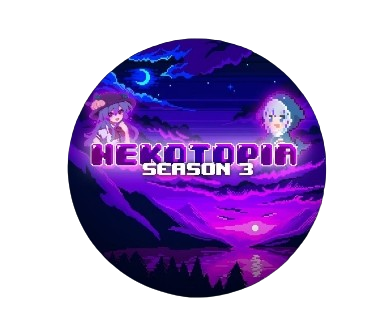
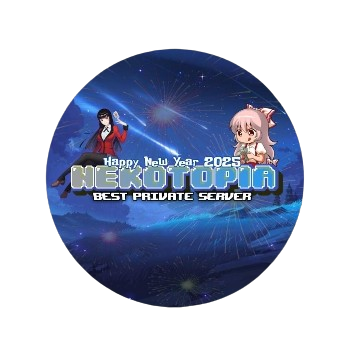
Add files via upload

diff --git a/index.html b/index.html
@@ -28,18 +28,35 @@
             <a href="#" class="nav-link">Home</a>
           </li>
           <li class="nav-item">
-            <a href="#about" class="nav-link">Assets</a>
-          </li>
-                    <li class="nav-item">
-
             <a href="#testimonials" class="nav-link">Buy Role</a>
-
           </li>
                     <li class="nav-item">
 
+            <a href="#testimonials3" class="nav-link">Buy L-ITEM</a>
+
+          </li>
+                                      
+                        <li class="nav-item">
+
+
+
+            <a href="#testimonials4" class="nav-link">Buy Title</a>
+
+          </li>
+                      <li class="nav-item">
+
+
+
+
+
+            <a href="#testimonials5" class="nav-link">Buy Serpent</a>
+
+          </li>
+                    <li class="nav-item">
             <a href="#testimonials2" class="nav-link">Server Own</a>
 
           </li>
+          
           <li class="nav-item">
             <a href="#contact" class="nav-link">Contact</a>
           </li>
@@ -75,7 +92,7 @@
 
       <section class="menu-section" id="menu">
 
-        <h2 class="section-title">info</h2>
+        <h2 class="section-title">Update</h2>
 
         <div class="section-content">
           <ul class="menu-list">
@@ -86,9 +103,9 @@
 
 
 
-                <h3 class="name"></h3>
+                <h3 class="name">What's New</h3>
 
-                <p class="text">Nekotopia Its A GTPS.</p>
+                <p class="text">-Fix Bugs <br>-New UI<br>-Change Colour Background<br>-Re-Design Website<br>-Added Domain<br>-Removed WOTW and WTBD<br>-Added New Profile<br>-Added More Buy Option<br>-New Assets Price<br>-Re-Design Buy L-Item<br>-Re-Design Buy Title<br>-Added Info<br>-Added Serpent Buy Option</p>
                 
                 
               </div>
@@ -96,42 +113,11 @@
           </ul>
         </div>
       </section>
+      
+            <!-- Testimonials section -->
 
-      <!-- About section -->
-      <section class="about-section" id="about">
-        <div class="section-content">
-          <div class="about-image-wrapper">
-            <img src="neko.png" alt="" class="about-image" />
-          </div>
-          <div class="about-details">
-            <h2 class="section-title">ASSETS PRICE</h2>
-            <p class="text">Title: <br />
-            • BLUE NAME: FREE <br />
-            • DR TITLE : FREE <br />
-            • MENTOR   : 5K <br />
-            • L TITLE: 5K <br />
-            • GROW4GOOD: 7K <br /><a href="http://Wa.me/6282269570365?text=BANG+BUY+TITLE" class="social-link"><i class="fa-brands fa-whatsapp"></i> BUY TITLE [CLICK HERE]</a></i> <br />
-            LEGENDARY ITEM: <br />
-            • LEGENDARY WING: 5K <br />
-            • LEGENDARY KAT : 5K <br />
-            • LEGENDARY DRAG   : 5K <br />
-            • LEGENDARY DESTROY: 5K <br />
-            • LEGENDARY KNIGHT    : 5K <br />
-            • LEGENDARY WHIP    : 5K <br />
-            • LEGENDARY BOT    : 5K <br />
-            • LEGENDARY OWL    : 5K <br /><a href="http://Wa.me/6282269570365?text=BANG+BUY+L+ITEM" class="social-link"><i class="fa-brands fa-whatsapp"></i> BUY L ITEM [CLICK HERE]</a></i></p><p class="text">C ITEM: <br />
-            • SERPENT 5K [X400 GEMS, X400EXP]<br /><a href="http://Wa.me/6282269570365?text=BANG+BUY+SERPENT" class="social-link"><i class="fa-brands fa-whatsapp"></i> BUY SERPENT [CLICK HERE]</a></i> <br />
-            <div class="social-link-list">
-              <a href="https://discord.gg/TKzRDeQr" class="social-link"><i class="fa-brands fa-discord"></i></a>
-              <a href="https://wa.me/6282269570365" class="social-link"><i class="fa-brands fa-whatsapp"></i></a>
-              <a href="https://www.tiktok.com/@juraganskibidi?_t=8rxLcQCAgPX&_r=1" class="social-link"><i class="fa-brands fa-tiktok"></i></a>
-            </div>
-          </div>
-        </div>
-      </section>
-
-      <!-- Testimonials section -->
       <section class="testimonials-section" id="testimonials">
+
         <h2 class="section-title">Buy Role</h2>
         <div class="section-content">
           <div class="slider-container swiper">
@@ -139,49 +125,49 @@
               <ul class="testimonials-list swiper-wrapper">
                 <li class="testimonial swiper-slide">
                   <img src="vipcheat.png" alt="User" class="user-image" />
-                  <h3 class="name1">NEWBIE PACK<i class="fas fa-check-circle blue-tick"></i></h3>
-                  <i class="feedback">0Rp [FREE]<br />[Swipe For More Role]<br /><a href="http://Wa.me/6282269570365?text=BANG+BUY+NEWBIE+PACK" class="social-link"><i class="fa-brands fa-whatsapp"></i> BUY ROLE [NO.1 Galang]</a></i></i></i>--- <br /><a href="http://Wa.me/+62 881-0372-84295?text=BANG+BUY+NEWBIE+PACK" class="social-link"><i class="fa-brands fa-whatsapp"></i> BUY ROLE [NO.2 Satya]</a></i></i></i>---<br /><a href="http://Wa.me/+62 821-9412-6411?text=BANG+BUY+NEWBIE+PACK" class="social-link"><i class="fa-brands fa-whatsapp"></i> BUY ROLE [NO.3 Valzz]</a></i></i></i>
+                  <h3 class="name1">NEWBIE PACK</h3>
+                  <i class="feedback">0Rp [FREE]<br />[Swipe For More Role]<br /><a href="http://Wa.me/6282269570365?text=BANG+BUY+NEWBIE+PACK" class="social-link"><i class="fa-brands fa-whatsapp"></i> BUY ROLE #1</a></i></i></i>--- <br /><a href="http://Wa.me/+62 881-0372-84295?text=BANG+BUY+NEWBIE+PACK" class="social-link"><i class="fa-brands fa-whatsapp"></i> BUY ROLE #2</a></i></i></i>---<br /><a href="http://Wa.me/+62 821-9412-6411?text=BANG+BUY+NEWBIE+PACK" class="social-link"><i class="fa-brands fa-whatsapp"></i> BUY ROLE #3</a></i></i></i>
                 </li>
                 <li class="testimonial swiper-slide">
                   <img src="mute.png" alt="User" class="user-image" />
-                  <h3 class="name1">GUARDIAN<i class="fas fa-check-circle blue-tick"></i></h3>
-                  <i class="feedback">10.000Rp<br />[Swipe For More Role]<br /><a href="http://Wa.me/6282269570365?text=BANG+BUY+ROLE+GUARDIAN" class="social-link"><i class="fa-brands fa-whatsapp"></i> BUY ROLE [NO.1 Galang]</a></i></i>--- <br /><a href="http://Wa.me/+62 881-0372-84295?text=BANG+BUY+ROLE+GUARDIAN" class="social-link"><i class="fa-brands fa-whatsapp"></i> BUY ROLE [NO.2 Satya]</a></i></i></i>--- <br /><a href="http://Wa.me/+62 821-9412-6411?text=BANG+BUY+ROLE+GUARDIAN" class="social-link"><i class="fa-brands fa-whatsapp"></i> BUY ROLE [NO.3 Valzz]</a></i></i></i>
+                  <h3 class="name1">GUARDIAN</h3>
+                  <i class="feedback">10.000Rp<br />[Swipe For More Role]<br /><a href="http://Wa.me/6282269570365?text=BANG+BUY+ROLE+GUARDIAN" class="social-link"><i class="fa-brands fa-whatsapp"></i> BUY ROLE #1</a></i></i>--- <br /><a href="http://Wa.me/+62 881-0372-84295?text=BANG+BUY+ROLE+GUARDIAN" class="social-link"><i class="fa-brands fa-whatsapp"></i> BUY ROLE #2</a></i></i></i>--- <br /><a href="http://Wa.me/+62 821-9412-6411?text=BANG+BUY+ROLE+GUARDIAN" class="social-link"><i class="fa-brands fa-whatsapp"></i> BUY ROLE #3</a></i></i></i>
                 </li>
                 <li class="testimonial swiper-slide">
                   <img src="ban.png" alt="User" class="user-image" />
-                  <h3 class="name1">MODERATOR<i class="fas fa-check-circle blue-tick"></i></h3>
+                  <h3 class="name1">MODERATOR</h3>
 
-                  <i class="feedback">25.000Rp<br />[Swipe For More Role]<br /><a href="http://Wa.me/6282269570365?text=BANG+BUY+ROLE+MODERATOR" class="social-link"><i class="fa-brands fa-whatsapp"></i> BUY ROLE [NO.1 Galang]</a></i></i></i>--- <br /><a href="http://Wa.me/+62 881-0372-84295?text=BANG+BUY+ROLE+MODERATOR" class="social-link"><i class="fa-brands fa-whatsapp"></i> BUY ROLE [NO.2 Satya]</a></i></i></i>--- <br /><a href="http://Wa.me/+62 821-9412-6411?text=BANG+BUY+ROLE+MODERATOR" class="social-link"><i class="fa-brands fa-whatsapp"></i> BUY ROLE [NO.3 Valzz]</a></i></i></i>
+                  <i class="feedback">25.000Rp<br />[Swipe For More Role]<br /><a href="http://Wa.me/6282269570365?text=BANG+BUY+ROLE+MODERATOR" class="social-link"><i class="fa-brands fa-whatsapp"></i> BUY ROLE #1</a></i></i></i>--- <br /><a href="http://Wa.me/+62 881-0372-84295?text=BANG+BUY+ROLE+MODERATOR" class="social-link"><i class="fa-brands fa-whatsapp"></i> BUY ROLE #2</a></i></i></i>--- <br /><a href="http://Wa.me/+62 821-9412-6411?text=BANG+BUY+ROLE+MODERATOR" class="social-link"><i class="fa-brands fa-whatsapp"></i> BUY ROLE #3</a></i></i></i>
                 </li>
                                 <li class="testimonial swiper-slide">
 
-                  <img src="curse.png" alt="User" class="user-image" />
+                  <img src="ban.png" alt="User" class="user-image" />
 
-                  <h3 class="name1">DEVELOPER<i class="fas fa-check-circle blue-tick"></i></h3>
+                  <h3 class="name1">DEVELOPER</h3>
 
-                  <i class="feedback">45.000Rp<br />[Swipe For More Role]<br /><a href="http://Wa.me/6282269570365?text=BANG+BUY+ROLE+DEV" class="social-link"><i class="fa-brands fa-whatsapp"></i> BUY ROLE [NO.1 Galang]</a></i></i></i>--- <br /><a href="http://Wa.me/+62 881-0372-84295?text=BANG+BUY+ROLE+DEVELOPER" class="social-link"><i class="fa-brands fa-whatsapp"></i> BUY ROLE [NO.2 Satya]</a></i></i></i>--- <br /><a href="http://Wa.me/+62 821-9412-6411?text=BANG+BUY+ROLE+DEVELOPER" class="social-link"><i class="fa-brands fa-whatsapp"></i> BUY ROLE [NO.3 Valzz]</a></i></i></i>
+                  <i class="feedback">45.000Rp<br />[Swipe For More Role]<br /><a href="http://Wa.me/6282269570365?text=BANG+BUY+ROLE+DEV" class="social-link"><i class="fa-brands fa-whatsapp"></i> BUY ROLE #1</a></i></i></i>--- <br /><a href="http://Wa.me/+62 881-0372-84295?text=BANG+BUY+ROLE+DEVELOPER" class="social-link"><i class="fa-brands fa-whatsapp"></i> BUY ROLE #2</a></i></i></i>--- <br /><a href="http://Wa.me/+62 821-9412-6411?text=BANG+BUY+ROLE+DEVELOPER" class="social-link"><i class="fa-brands fa-whatsapp"></i> BUY ROLE #3</a></i></i></i>
                 </li>
 <li class="testimonial swiper-slide">
-                  <img src="curse.png" alt="User" class="user-image" />
+                  <img src="ban.png" alt="User" class="user-image" />
 
-                  <h3 class="name1">SUPER-DEV<i class="fas fa-check-circle blue-tick"></i></h3>
+                  <h3 class="name1">SUPER-DEV</h3>
 
-                  <i class="feedback">55.000Rp<br />[Swipe For More Role]<br /><a href="http://Wa.me/6282269570365?text=BANG+BUY+ROLE+SDEV" class="social-link"><i class="fa-brands fa-whatsapp"></i> BUY ROLE [NO.1 Galang]</a></i></i></i>--- <br /><a href="http://Wa.me/+62 881-0372-84295?text=BANG+BUY+ROLE+SDEV" class="social-link"><i class="fa-brands fa-whatsapp"></i> BUY ROLE [NO.2 Satya]</a></i></i></i>--- <br /><a href="http://Wa.me/+62 821-9412-6411?text=BANG+BUY+ROLE+SDEV" class="social-link"><i class="fa-brands fa-whatsapp"></i> BUY ROLE [NO.3 Valzz]</a></i></i></i>
+                  <i class="feedback">55.000Rp<br />[Swipe For More Role]<br /><a href="http://Wa.me/6282269570365?text=BANG+BUY+ROLE+SDEV" class="social-link"><i class="fa-brands fa-whatsapp"></i> BUY ROLE #1</a></i></i></i>--- <br /><a href="http://Wa.me/+62 881-0372-84295?text=BANG+BUY+ROLE+SDEV" class="social-link"><i class="fa-brands fa-whatsapp"></i> BUY ROLE #2</a></i></i></i>--- <br /><a href="http://Wa.me/+62 821-9412-6411?text=BANG+BUY+ROLE+SDEV" class="social-link"><i class="fa-brands fa-whatsapp"></i> BUY ROLE #3</a></i></i></i>
                 </li>
                 <li class="testimonial swiper-slide">
 
                   <img src="curse.png" alt="User" class="user-image" />
 
 
-                  <h3 class="name1">STAFF<i class="fas fa-check-circle blue-tick"></i></h3>
+                  <h3 class="name1">STAFF</h3>
 
-                  <i class="feedback">150.000Rp<br />[Swipe For More Role]<br /><a href="http://Wa.me/6282269570365?text=BANG+BUY+ROLE+STAFF" class="social-link"><i class="fa-brands fa-whatsapp"></i> BUY ROLE [NO.1 Galang]</a></i></i></i>--- <br /><a href="http://Wa.me/+62 881-0372-84295?text=BANG+BUY+ROLE+STAFF" class="social-link"><i class="fa-brands fa-whatsapp"></i> BUY ROLE [NO.2 Satya]</a></i></i></i>---<br /><a href="http://Wa.me/+62 821-9412-6411?text=BANG+BUY+ROLE+STAFF" class="social-link"><i class="fa-brands fa-whatsapp"></i> BUY ROLE [NO.3 Valzz]</a></i></i></i>
+                  <i class="feedback">150.000Rp<br />[Swipe For More Role]<br /><a href="http://Wa.me/6282269570365?text=BANG+BUY+ROLE+STAFF" class="social-link"><i class="fa-brands fa-whatsapp"></i> BUY ROLE #1</a></i></i></i>--- <br /><a href="http://Wa.me/+62 881-0372-84295?text=BANG+BUY+ROLE+STAFF" class="social-link"><i class="fa-brands fa-whatsapp"></i> BUY ROLE #2</a></i></i></i>---<br /><a href="http://Wa.me/+62 821-9412-6411?text=BANG+BUY+ROLE+STAFF" class="social-link"><i class="fa-brands fa-whatsapp"></i> BUY ROLE #3</a></i></i></i>
                 </li></i>
                 </li>
 <li class="testimonial swiper-slide">
                   <img src="curse.png" alt="User" class="user-image" />
 
-                  <h3 class="name1">CO-LIST<i class="fas fa-check-circle blue-tick"></i></h3>
+                  <h3 class="name1">CO-LIST</h3>
 
                   <i class="feedback">500.000Rp [Disabled]<br />[Swipe For More Role]<br />Disabled</i>
                 </li>
@@ -192,6 +178,180 @@
               <div class="swiper-slide-button swiper-button-prev"></div>
 
               <div class="swiper-slide-button swiper-button-next"></div>
+            </div>
+          </div>
+        </div>
+      </section>
+      
+                  <!-- Testimonials section -->
+
+      <section class="testimonials-section" id="testimonials3">
+
+        <h2 class="section-title">Buy L-ITEM</h2>
+        <div class="section-content">
+          <div class="slider-container swiper">
+            <div class="slider-wrapper">
+              <ul class="testimonials-list swiper-wrapper">
+                <li class="testimonial swiper-slide">
+                  <img src="katana.png" alt="User" class="user-image" />
+                  <h3 class="name1">Legendary Katana</h3>
+                  <i class="feedback">5.000Rp<br />[Swipe For More L-ITEM]<br /><a href="http://Wa.me/6282269570365?text=BANG+BUY+LEGENDARY+KATANA" class="social-link"><i class="fa-brands fa-whatsapp"></i> BUY L-ITEM #1</a></i></i></i>--- <br /><a href="http://Wa.me/+62 881-0372-84295?text=BANG+BUY+LEGENDARY+KATANA" class="social-link"><i class="fa-brands fa-whatsapp"></i> BUY L-ITEM #2</a></i></i></i>---<br /><a href="http://Wa.me/+62 821-9412-6411?text=BANG+BUY+LEGENDARY+KATANA" class="social-link"><i class="fa-brands fa-whatsapp"></i> BUY L-ITEM #3</a></i></i></i></i>
+                </li>
+                <li class="testimonial swiper-slide">
+                  <img src="lwing.png" alt="User" class="user-image" />
+                  <h3 class="name1">Legendary Wing</h3>
+                  <i class="feedback">5.000Rp<br />[Swipe For More L-ITEM]<br /><a href="http://Wa.me/6282269570365?text=BANG+BUY+LEGENDARY+WING" class="social-link"><i class="fa-brands fa-whatsapp"></i> BUY L-ITEM #1</a></i></i></i>--- <br /><a href="http://Wa.me/+62 881-0372-84295?text=BANG+BUY+LEGENDARY+WING" class="social-link"><i class="fa-brands fa-whatsapp"></i> BUY L-ITEM #2</a></i></i></i>---<br /><a href="http://Wa.me/+62 821-9412-6411?text=BANG+BUY+LEGENDARY+WING" class="social-link"><i class="fa-brands fa-whatsapp"></i> BUY L-ITEM #3</a></i></i></i></i>
+                </li>
+                                <li class="testimonial swiper-slide">
+
+                  <img src="dragon.png" alt="User" class="user-image" />
+
+                  <h3 class="name1">Legendary Dragon</h3>
+
+                  <i class="feedback">5.000Rp<br />[Swipe For More L-ITEM]<br /><a href="http://Wa.me/6282269570365?text=BANG+BUY+LEGENDARY+DRAGON" class="social-link"><i class="fa-brands fa-whatsapp"></i> BUY L-ITEM #1</a></i></i></i>--- <br /><a href="http://Wa.me/+62 881-0372-84295?text=BANG+BUY+LEGENDARY+DRAGON" class="social-link"><i class="fa-brands fa-whatsapp"></i> BUY L-ITEM #2</a></i></i></i>---<br /><a href="http://Wa.me/+62 821-9412-6411?text=BANG+BUY+LEGENDARY+DRAGON" class="social-link"><i class="fa-brands fa-whatsapp"></i> BUY L-ITEM #3</a></i></i></i></i>
+                </li>
+                <li class="testimonial swiper-slide">
+                  <img src="bot.png" alt="User" class="user-image" />
+                  <h3 class="name1">Legendbot-009</h3>
+
+                  <i class="feedback">5.000Rp<br />[Swipe For More L-ITEM]<br /><a href="http://Wa.me/6282269570365?text=BANG+BUY+LEGENDBOT-009" class="social-link"><i class="fa-brands fa-whatsapp"></i> BUY L-ITEM #1</a></i></i></i>--- <br /><a href="http://Wa.me/+62 881-0372-84295?text=BANG+BUY+LEGENDBOT-009" class="social-link"><i class="fa-brands fa-whatsapp"></i> BUY L-ITEM #2</a></i></i></i>---<br /><a href="http://Wa.me/+62 821-9412-6411?text=BANG+BUY+LEGENDBOT-009" class="social-link"><i class="fa-brands fa-whatsapp"></i> BUY L-ITEM #3</a></i></i></i></i>
+                </li>
+                                <li class="testimonial swiper-slide">
+
+                  <img src="knight.png" alt="User" class="user-image" />
+
+                  <h3 class="name1">Legendary Knight Wing</h3>
+
+                  <i class="feedback">5.000Rp<br />[Swipe For More L-ITEM]<br /><a href="http://Wa.me/6282269570365?text=BANG+BUY+LEGENDARY+KNIGHT+WING" class="social-link"><i class="fa-brands fa-whatsapp"></i> BUY L-ITEM #1</a></i></i></i>--- <br /><a href="http://Wa.me/+62 881-0372-84295?text=BANG+BUY+LEGENDARY+KNIGHT+WING" class="social-link"><i class="fa-brands fa-whatsapp"></i> BUY L-ITEM #2</a></i></i></i>---<br /><a href="http://Wa.me/+62 821-9412-6411?text=BANG+BUY+LEGENDARY+KNIGHT+WING" class="social-link"><i class="fa-brands fa-whatsapp"></i> BUY L-ITEM #3</a></i></i></i></i>
+                </li>
+<li class="testimonial swiper-slide">
+                  <img src="owl.png" alt="User" class="user-image" />
+
+                  <h3 class="name1">Legendary Owl</h3>
+
+                  <i class="feedback">5.000Rp<br />[Swipe For More L-ITEM]<br /><a href="http://Wa.me/6282269570365?text=BANG+BUY+LEGENDARY+OWL" class="social-link"><i class="fa-brands fa-whatsapp"></i> BUY L-ITEM #1</a></i></i></i>--- <br /><a href="http://Wa.me/+62 881-0372-84295?text=BANG+BUY+LEGENDARY+OWL" class="social-link"><i class="fa-brands fa-whatsapp"></i> BUY L-ITEM #2</a></i></i></i>---<br /><a href="http://Wa.me/+62 821-9412-6411?text=BANG+BUY+LEGENDARY+OWL" class="social-link"><i class="fa-brands fa-whatsapp"></i> BUY L-ITEM #3</a></i></i></i></i>
+                </li>
+                <li class="testimonial swiper-slide">
+
+                  <img src="destroy.png" alt="User" class="user-image" />
+
+
+                  <h3 class="name1">Legendary Destroyer</h3>
+
+                  <i class="feedback">5.000Rp<br />[Swipe For More L-ITEM]<br /><a href="http://Wa.me/6282269570365?text=BANG+BUY+LEGENDARY+DESTROYER" class="social-link"><i class="fa-brands fa-whatsapp"></i> BUY L-ITEM #1</a></i></i></i>--- <br /><a href="http://Wa.me/+62 881-0372-84295?text=BANG+BUY+LEGENDARY+DESTROYER" class="social-link"><i class="fa-brands fa-whatsapp"></i> BUY L-ITEM #2</a></i></i></i>---<br /><a href="http://Wa.me/+62 821-9412-6411?text=BANG+BUY+LEGENDARY+DESTROYER" class="social-link"><i class="fa-brands fa-whatsapp"></i> BUY L-ITEM #3</a></i></i></i></i>
+                </li></i>
+                </li>
+<li class="testimonial swiper-slide">
+                  <img src="whip.png" alt="User" class="user-image" />
+
+                  <h3 class="name1">Whip Of Truth</h3>
+
+                  <i class="feedback">5.000Rp<br />[Swipe For More L-ITEM]<br /><a href="http://Wa.me/6282269570365?text=BANG+BUY+WHIP+OF+TRUTH" class="social-link"><i class="fa-brands fa-whatsapp"></i> BUY L-ITEM #1</a></i></i></i>--- <br /><a href="http://Wa.me/+62 881-0372-84295?text=BANG+BUY+WHIP+OF+TRUTH" class="social-link"><i class="fa-brands fa-whatsapp"></i> BUY L-ITEM #2</a></i></i></i>---<br /><a href="http://Wa.me/+62 821-9412-6411?text=BANG+BUY+WHIP+OF+TRUTH" class="social-link"><i class="fa-brands fa-whatsapp"></i> BUY L-ITEM #3</a></i></i></i></i>
+                </li>
+              </ul>
+              
+                            <div class="swiper-pagination"></div>
+
+              <div class="swiper-slide-button swiper-button-prev"></div>
+
+              <div class="swiper-slide-button swiper-button-next"></div>
+            </div>
+          </div>
+        </div>
+      </section>
+      
+                        <!-- Testimonials section -->
+
+      <section class="testimonials-section" id="testimonials4">
+
+        <h2 class="section-title">Buy Title</h2>
+        <div class="section-content">
+          <div class="slider-container swiper">
+            <div class="slider-wrapper">
+              <ul class="testimonials-list swiper-wrapper">
+                <li class="testimonial swiper-slide">
+                  <img src="honor.png" alt="User" class="user-image" />
+                  <h3 class="name1">Blue Name</h3>
+                  <i class="feedback">0Rp [FREE]<br />[Swipe For More Title]<br /><a href="http://Wa.me/6282269570365?text=BANG+BUY+BLUE+NAME" class="social-link"><i class="fa-brands fa-whatsapp"></i> BUY TITLE #1</a></i></i></i>--- <br /><a href="http://Wa.me/+62 881-0372-84295?text=BANG+BUY+BLUE+NAME" class="social-link"><i class="fa-brands fa-whatsapp"></i> BUY TITLE #2</a></i></i></i>---<br /><a href="http://Wa.me/+62 821-9412-6411?text=BANG+BUY+BLUE+NAME" class="social-link"><i class="fa-brands fa-whatsapp"></i> BUY TITLE #3</a></i></i></i></i>
+                </li>
+                <li class="testimonial swiper-slide">
+                  <img src="honor.png" alt="User" class="user-image" />
+                  <h3 class="name1">Dr Title</h3>
+                  <i class="feedback">0Rp [FREE]<br />[Swipe For More Title]<br /><a href="http://Wa.me/6282269570365?text=BANG+BUY+DR+TITLE" class="social-link"><i class="fa-brands fa-whatsapp"></i> BUY TITLE #1</a></i></i></i>--- <br /><a href="http://Wa.me/+62 881-0372-84295?text=BANG+BUY+DR+TITLE" class="social-link"><i class="fa-brands fa-whatsapp"></i> BUY TITLE #2</a></i></i></i>---<br /><a href="http://Wa.me/+62 821-9412-6411?text=BANG+BUY+DR+TITLE" class="social-link"><i class="fa-brands fa-whatsapp"></i> BUY TITLE #3</a></i></i></i></i>
+                </li>
+                                <li class="testimonial swiper-slide">
+
+                  <img src="honor.png" alt="User" class="user-image" />
+
+                  <h3 class="name1">Legendary Title</h3>
+
+                  <i class="feedback">5.000Rp<br />[Swipe For More Title]<br /><a href="http://Wa.me/6282269570365?text=BANG+BUY+L+TITLE" class="social-link"><i class="fa-brands fa-whatsapp"></i> BUY TITLE #1</a></i></i></i>--- <br /><a href="http://Wa.me/+62 881-0372-84295?text=BANG+BUY+L+TITLE" class="social-link"><i class="fa-brands fa-whatsapp"></i> BUY TITLE #2</a></i></i></i>---<br /><a href="http://Wa.me/+62 821-9412-6411?text=BANG+BUY+L+TITLE" class="social-link"><i class="fa-brands fa-whatsapp"></i> BUY TITLE #3</a></i></i></i></i>
+                </li>
+                <li class="testimonial swiper-slide">
+                  <img src="mentor.png" alt="User" class="user-image" />
+                  <h3 class="name1">Mentor</h3>
+
+                  <i class="feedback">5.000Rp<br />[Swipe For More Title]<br /><a href="http://Wa.me/6282269570365?text=BANG+BUY+TITLE+MENTOR" class="social-link"><i class="fa-brands fa-whatsapp"></i> BUY TITLE #1</a></i></i></i>--- <br /><a href="http://Wa.me/+62 881-0372-84295?text=BANG+BUY+TITLE+MENTOR" class="social-link"><i class="fa-brands fa-whatsapp"></i> BUY TITLE #2</a></i></i></i>---<br /><a href="http://Wa.me/+62 821-9412-6411?text=BANG+BUY+TITLE+MENTOR" class="social-link"><i class="fa-brands fa-whatsapp"></i> BUY TITLE #3</a></i></i></i></i>
+                </li>
+                                <li class="testimonial swiper-slide">
+
+                  <img src="grow4good.png" alt="User" class="user-image" />
+
+                  <h3 class="name1">Grow4Good</h3>
+
+                  <i class="feedback">7.000Rp<br />[Swipe For More Title]<br /><a href="http://Wa.me/6282269570365?text=BANG+BUY+TITLE+GROW4GOOD" class="social-link"><i class="fa-brands fa-whatsapp"></i> BUY TITLE #1</a></i></i></i>--- <br /><a href="http://Wa.me/+62 881-0372-84295?text=BANG+BUY+TITLE+GROW4GOOD" class="social-link"><i class="fa-brands fa-whatsapp"></i> BUY TITLE #2</a></i></i></i>---<br /><a href="http://Wa.me/+62 821-9412-6411?text=BANG+BUY+TITLE+GROW4GOOD" class="social-link"><i class="fa-brands fa-whatsapp"></i> BUY TITLE #3</a></i></i></i></i>
+                </li>
+              </ul>
+              
+                            <div class="swiper-pagination"></div>
+
+              <div class="swiper-slide-button swiper-button-prev"></div>
+
+              <div class="swiper-slide-button swiper-button-next"></div>
+            </div>
+          </div>
+        </div>
+      </section>
+      
+                        <!-- Testimonials section -->
+
+      <section class="testimonials-section" id="testimonials5">
+
+        <h2 class="section-title">Buy SERPENT</h2>
+        <div class="section-content">
+          <div class="slider-container swiper">
+            <div class="slider-wrapper">
+              <ul class="testimonials-list swiper-wrapper">
+                <li class="testimonial swiper-slide">
+                  <img src="serpent.jpeg" alt="User" class="user-image" />
+                  <h3 class="name1">SERPENT</h3>
+                  <i class="feedback">5.000Rp<br />[x400 GEMS x400 EXP]<br /><a href="http://Wa.me/6282269570365?text=BANG+BUY+SERPENT" class="social-link"><i class="fa-brands fa-whatsapp"></i> BUY SERPENT #1</a></i></i></i>--- <br /><a href="http://Wa.me/+62 881-0372-84295?text=BANG+BUY+SERPENT" class="social-link"><i class="fa-brands fa-whatsapp"></i> BUY SERPENT #2</a></i></i></i>---<br /><a href="http://Wa.me/+62 821-9412-6411?text=BANG+BUY+SERPENT" class="social-link"><i class="fa-brands fa-whatsapp"></i> BUY SERPENT #3</a></i></i></i></i>
+                </li>
+              </ul>
+              
+                            <div class="swiper-pagination"></div>
+
+              <div class="swiper-slide-button swiper-button-prev"></div>
+
+              <div class="swiper-slide-button swiper-button-next"></div>
+            </div>
+          </div>
+        </div>
+      </section>
+      
+      <!-- About section -->
+      <section class="about-section" id="about">
+        <div class="section-content">
+          <div class="about-image-wrapper">
+            <img src="neko.png" alt="" class="about-image" />
+          </div>
+          <div class="about-details">
+            <h2 class="section-title">Info</h2>
+            <p class="text">NekoTopia Private Server<br>Season 3</p>
+            <div class="social-link-list">
+              <a href="https://discord.gg/TKzRDeQr" class="social-link"><i class="fa-brands fa-discord"></i></a>
+              <a href="https://wa.me/6282269570365" class="social-link"><i class="fa-brands fa-whatsapp"></i></a>
+              <a href="https://www.tiktok.com/@juraganskibidi?_t=8rxLcQCAgPX&_r=1" class="social-link"><i class="fa-brands fa-tiktok"></i></a>
             </div>
           </div>
         </div>
@@ -259,7 +419,7 @@
 
               <i class="fa-solid fa-globe"></i>
 
-              <p>Versi: 4.12.4</p>
+              <p>Versi: 6.17b</p>
             </li>
           </ul>
 

diff --git a/style.css b/style.css
@@ -12,8 +12,8 @@
   /* Colors */
   --white-color: #fff;
   --dark-color: #252525;
-  --primary-color: #55238d;
-  --secondary-color: #ff8605;
+  --primary-color: #1f4596;
+  --secondary-color: #15c0d3;
   --light-pink-color: #ffffff;
   --medium-gray-color: #ccc;
 
@@ -629,7 +629,7 @@ header .navbar {
 
   .navbar .nav-menu {
     display: block;
-    background: #fff;
+    background: #1f4596;
     position: fixed;
     top: 0;
     left: -300px;
@@ -650,7 +650,7 @@ header .navbar {
     display: block;
     margin-top: 17px;
     padding: 10px 22px;
-    color: var(--dark-color);
+    color: var(--white-color);
     font-size: var(--font-size-l);
   }
 
